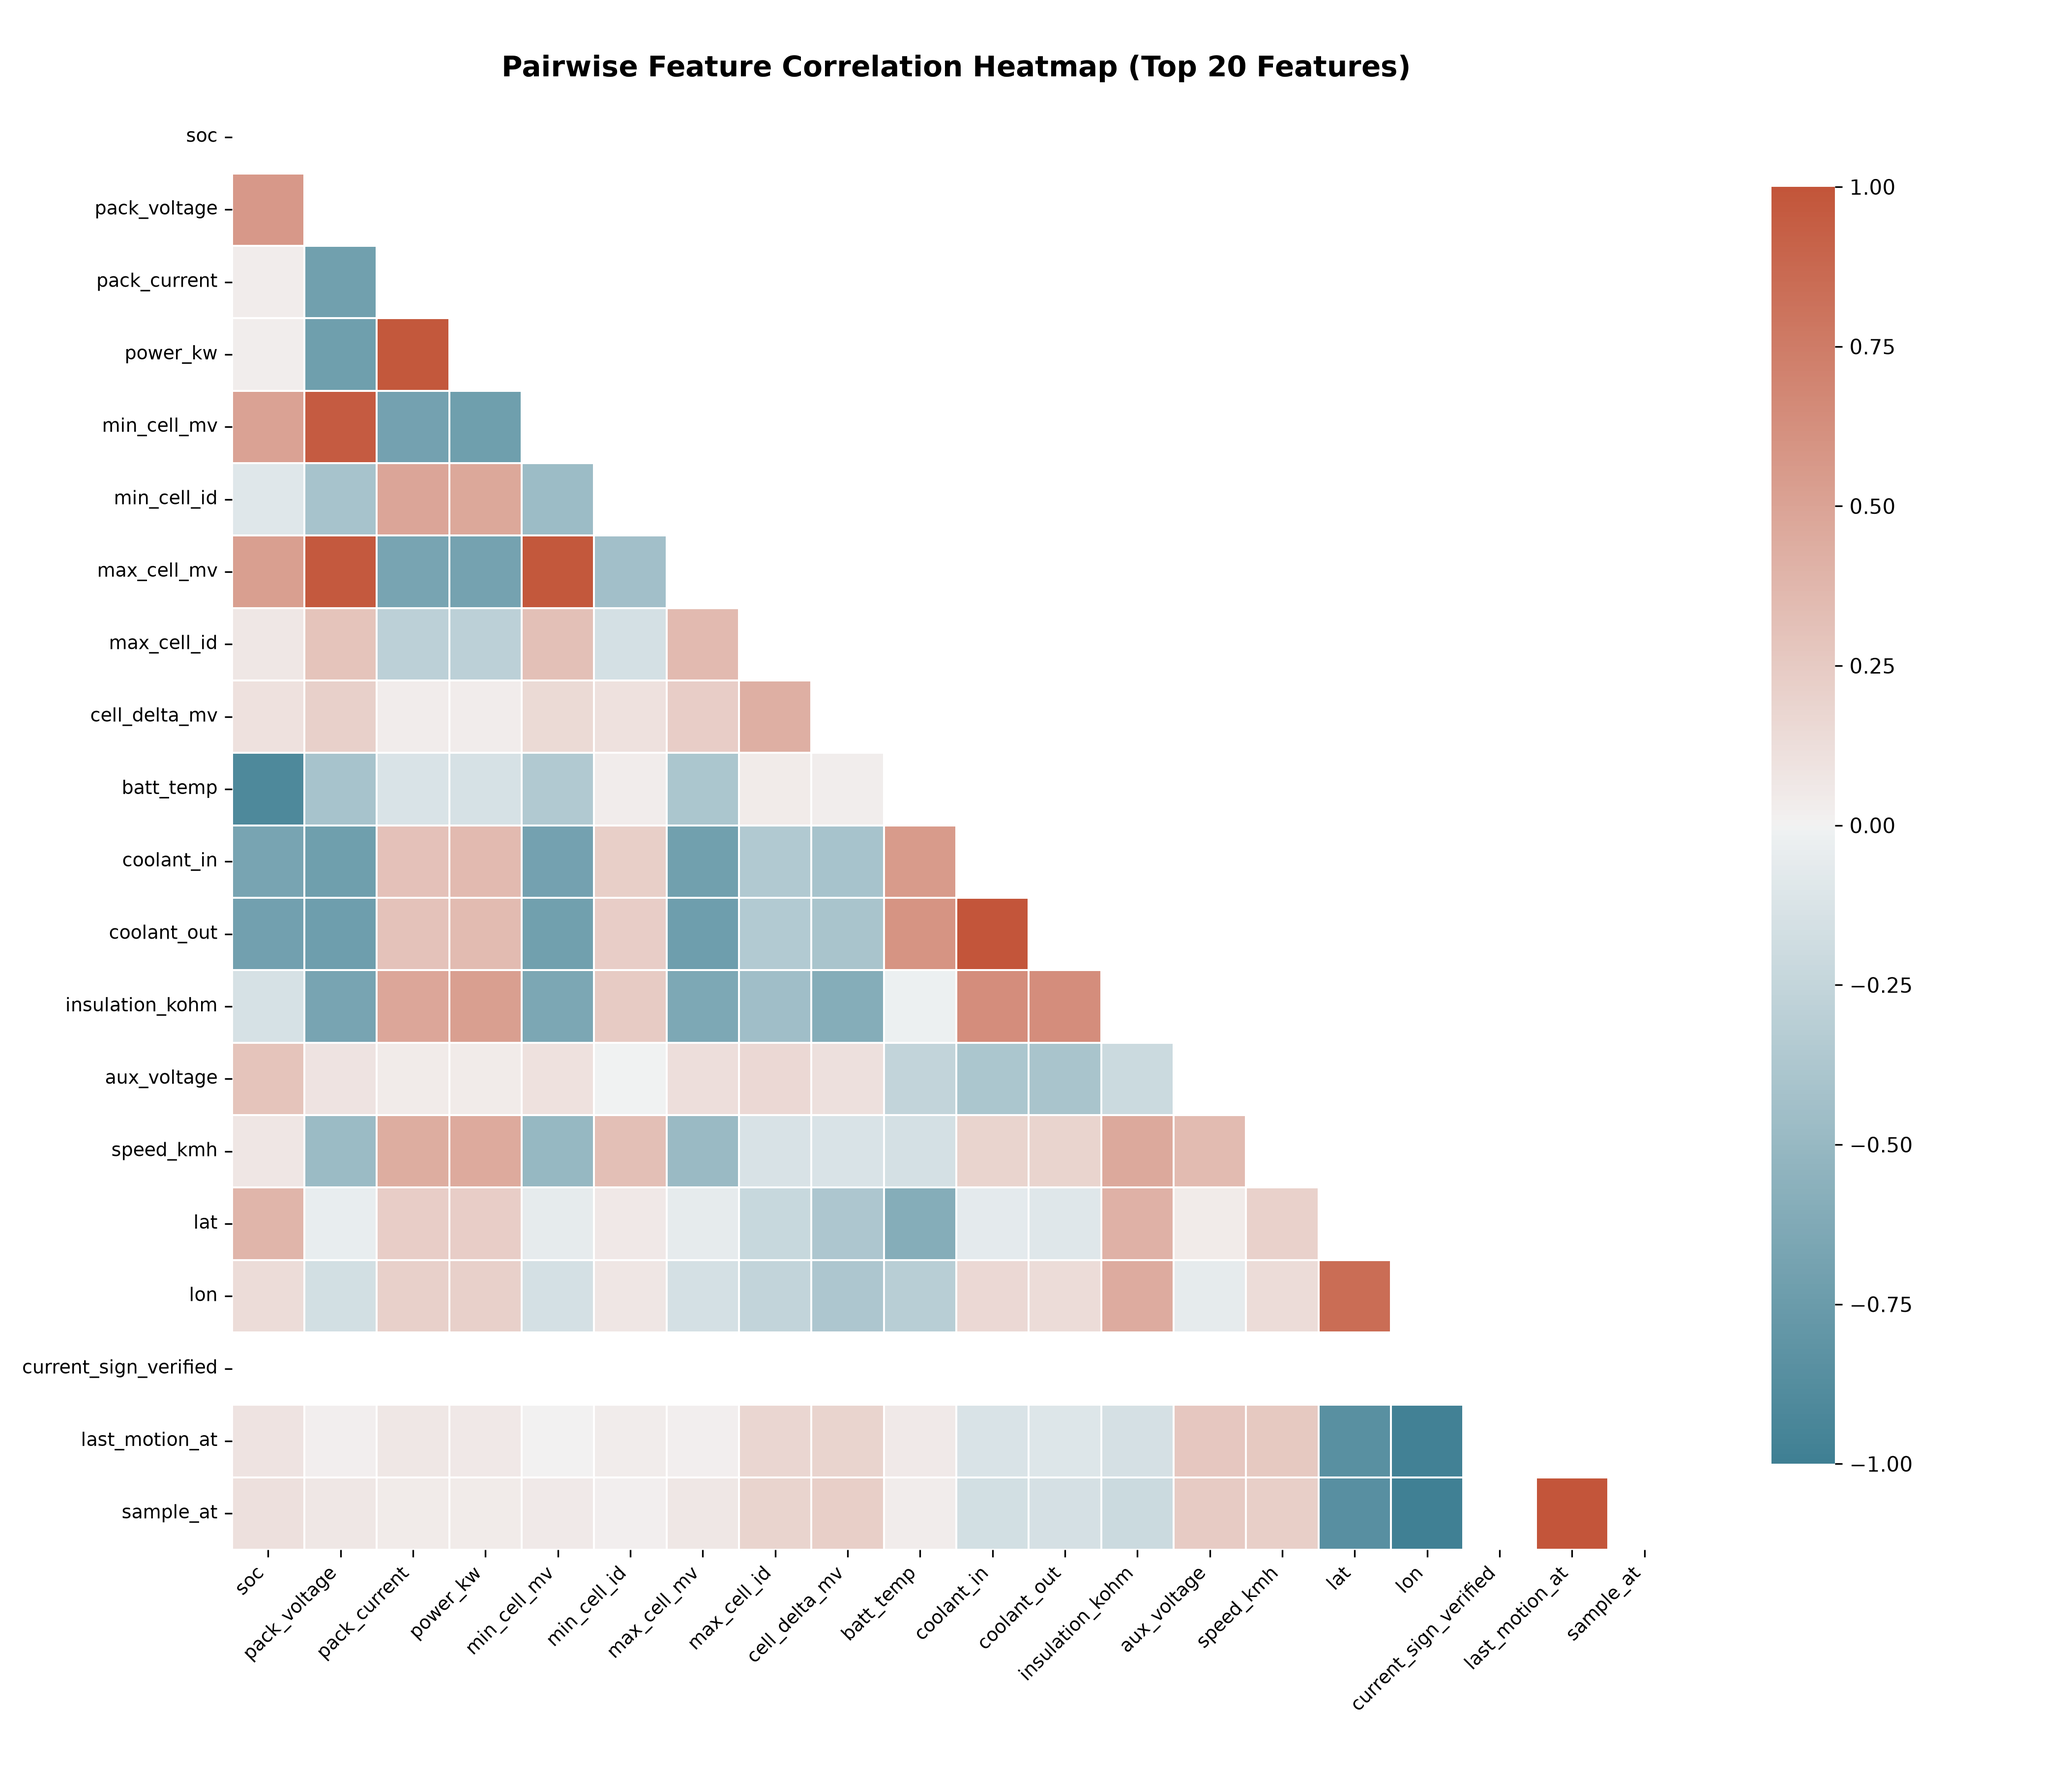
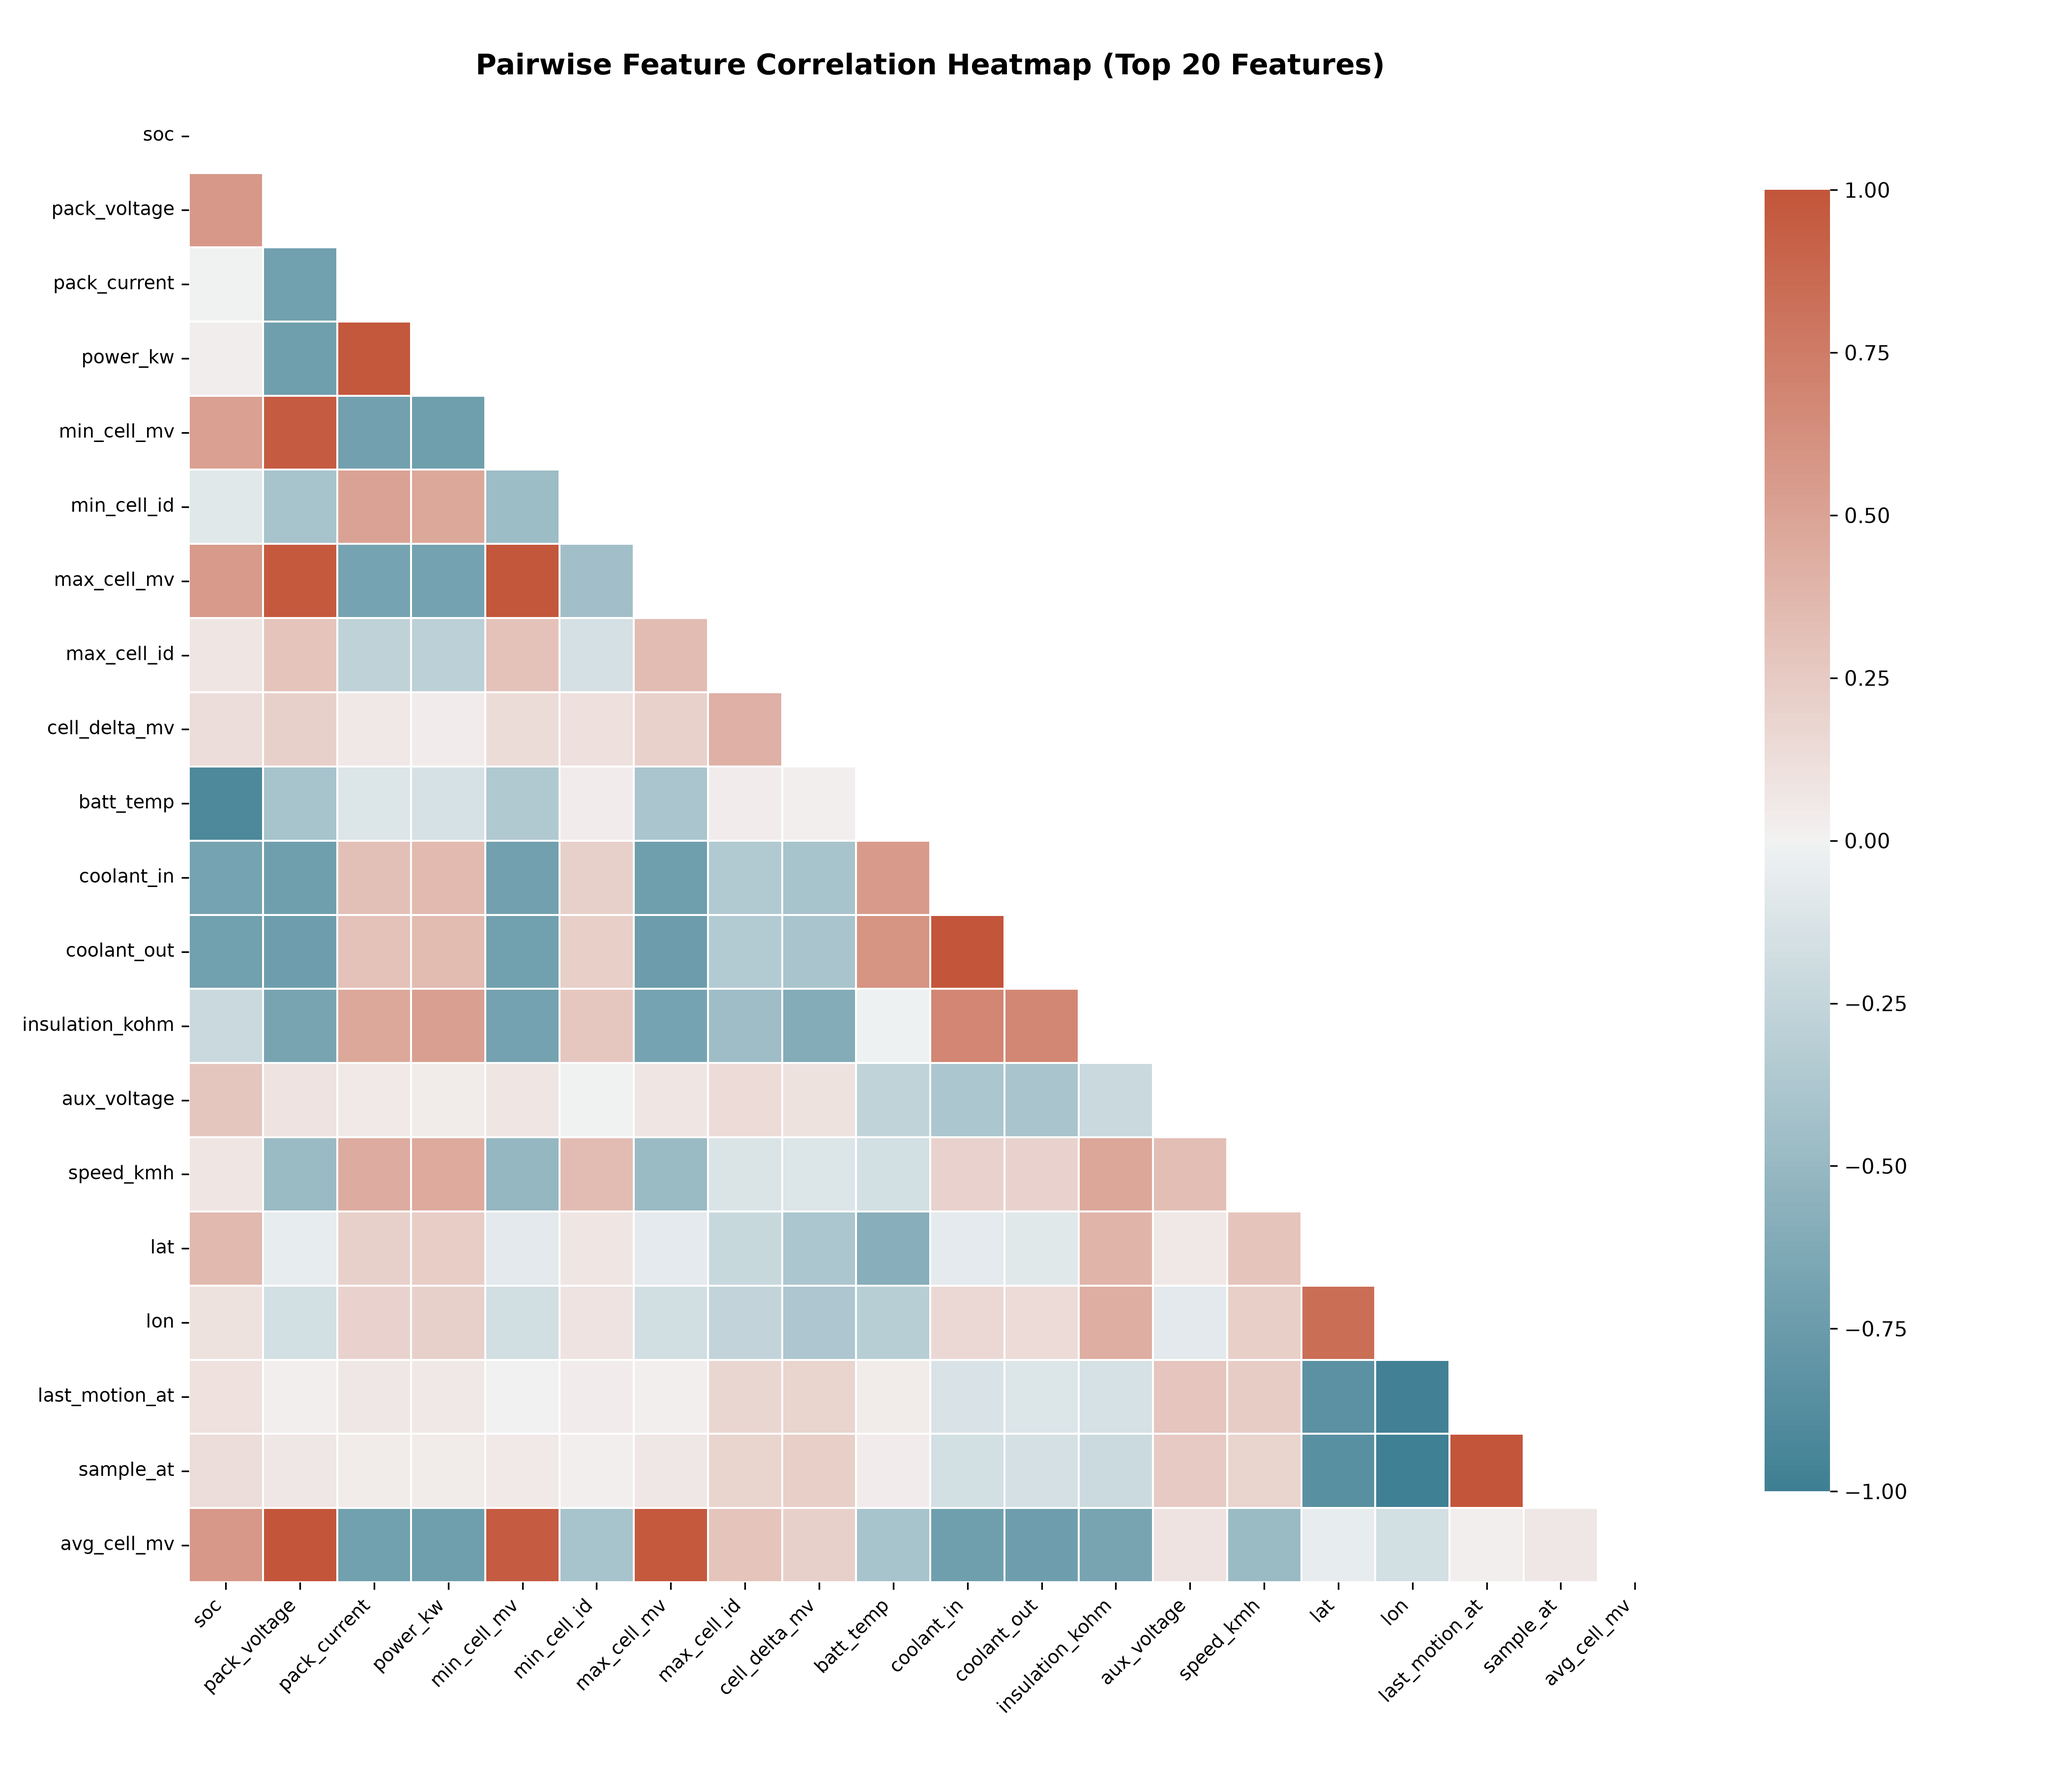
Update VRP data pipeline

diff --git a/src/pipeline.py b/src/pipeline.py
@@ -21,7 +21,7 @@ import pandas as pd
 from sklearn.model_selection._split import train_test_split
 
 from src.analysis import run_full_analysis
-from src.cleaning import clean_dataset, to_snake_case
+from src.cleaning import clean_dataset, drop_constant_columns, to_snake_case
 from src.config import (
     CLEANING_REPORT_PATH,
     CORR_THRESHOLD,
@@ -149,7 +149,24 @@ def run_pipeline(config: PipelineConfig) -> Dict[str, Any]:
             f"Available columns: {list(cleaned_df.columns)}"
         )
 
-    # 3. Exploratory Analysis & High-Res PNG Visualizations
+    # 3. Handle missing target rows (drop rows where target is NaN instead of imputing)
+    missing_target_count = int(cleaned_df[target_clean].isna().sum())
+    if missing_target_count > 0:
+        logger.info(f"Dropping {missing_target_count} rows with NaN in target '{target_clean}'.")
+        cleaned_df = cleaned_df.dropna(subset=[target_clean]).reset_index(drop=True)
+    cleaning_audit["dropped_missing_target_rows"] = missing_target_count
+
+    # 4. Drop constant (zero-variance) columns before running correlation analysis
+    protected = set([target_clean, "ts_utc", "ts_utc_original", "ts", "timestamp"] + (config.extra_metadata_cols or []))
+    cleaned_df, constant_cols = drop_constant_columns(cleaned_df, preserve_cols=list(protected))
+    if constant_cols:
+        existing_const = set(cleaning_audit.get("dropped_constant_cols", []))
+        cleaning_audit["dropped_constant_cols"] = sorted(list(existing_const.union(constant_cols)))
+
+    cleaning_audit["final_rows"] = int(cleaned_df.shape[0])
+    cleaning_audit["final_cols"] = int(cleaned_df.shape[1])
+
+    # 5. Exploratory Analysis & High-Res PNG Visualizations
     analysis_meta = run_full_analysis(
         df=cleaned_df,
         target_col=target_clean,
@@ -157,7 +174,7 @@ def run_pipeline(config: PipelineConfig) -> Dict[str, Any]:
         missing_threshold=config.missing_col_threshold
     )
 
-    # 4. Data Splitting (Before fitting selectors, imputers, scalers)
+    # 6. Data Splitting (Before fitting selectors, imputers, scalers)
     X_train, X_val, X_test, y_train, y_val, y_test, split_meta = split_data(
         df=cleaned_df,
         target_col=target_clean,
@@ -286,7 +303,9 @@ def run_pipeline(config: PipelineConfig) -> Dict[str, Any]:
     print(f"  Target Variable      : {target_clean}")
     print(f"  Initial Shape        : {cleaning_audit['initial_rows']} rows x {cleaning_audit['initial_cols']} cols")
     print(f"  Cleaned Shape        : {cleaning_audit['final_rows']} rows x {cleaning_audit['final_cols']} cols")
+    print(f"  Dropped Missing-Target: {cleaning_audit.get('dropped_missing_target_rows', 0)} rows")
     print(f"  Dropped High-Missing : {list(cleaning_audit['dropped_high_missing_cols'].keys())}")
+    print(f"  Dropped Constant     : {cleaning_audit.get('dropped_constant_cols', [])}")
     print(f"  Dropped Collinear    : {feature_sel_summary['collinear_dropped']}")
     print(f"  Domain Violations    : {cleaning_audit['domain_violations_corrected']}")
     total_outliers = sum(v["outlier_count"] for v in cleaning_audit["outlier_treatment"].values())

diff --git a/tests/test_pipeline.py b/tests/test_pipeline.py
@@ -71,6 +71,7 @@ def test_ev_domain_guards():
     df_raw = pd.DataFrame({
         "speed_kmh": [-15.0, 45.0, 180.0, 90.0],
         "cell_delta_mv": [-25.0, 5.0, 12.0, -2.0],
+        "cell_delta": [-10.0, 25.0, 60.0, 600.0],
         "soc": [-5.0, 80.0, 105.0, 50.0],
         "pack_voltage": [350.0, 360.0, 370.0, 380.0]
     })
@@ -81,9 +82,14 @@ def test_ev_domain_guards():
     assert df_clean["speed_kmh"].max() <= 150.0
     assert violations.get("speed_kmh", 0) == 2
 
-    # Cell delta assertions (cannot be negative)
+    # Cell delta assertions (millivolts: valid range 0 to 500 mV, valid 25 and 60 mV not clipped to 1.0)
     assert df_clean["cell_delta_mv"].min() >= 0.0
     assert violations.get("cell_delta_mv", 0) == 2
+    assert df_clean["cell_delta"].min() >= 0.0
+    assert df_clean["cell_delta"].iloc[1] == 25.0
+    assert df_clean["cell_delta"].iloc[2] == 60.0
+    assert df_clean["cell_delta"].max() <= 500.0
+    assert violations.get("cell_delta", 0) == 2
 
     # SOC assertions
     assert df_clean["soc"].min() >= 0.0
@@ -225,3 +231,51 @@ def test_cleaning_report_structure(temp_pipeline_env):
     ]
     for key in required_keys:
         assert key in data, f"Key '{key}' missing from cleaning report JSON!"
+
+
+def test_drop_missing_target_rows(tmp_path):
+    """Verifies that rows with NaN in the target variable are dropped and logged in cleaning_report.json."""
+    raw_dir = tmp_path / "raw"
+    processed_dir = tmp_path / "processed"
+    outputs_dir = tmp_path / "outputs"
+    raw_dir.mkdir(parents=True)
+    processed_dir.mkdir(parents=True)
+    outputs_dir.mkdir(parents=True)
+
+    sample_csv = raw_dir / "sample_ev_nan_target.csv"
+    df = generate_synthetic_vrp_data(num_rows=100)
+    # Inject 15 NaNs into the target column
+    df.loc[:14, "power_kw"] = np.nan
+    df.to_csv(sample_csv, index=False)
+
+    report_file = outputs_dir / "cleaning_report.json"
+    config = PipelineConfig(
+        input_path=str(sample_csv),
+        target_col="power_kw",
+        split_mode="chronological",
+        output_dir=str(processed_dir),
+        plots_dir=str(outputs_dir / "plots"),
+        report_path=str(report_file)
+    )
+    report = run_pipeline(config)
+
+    assert report["cleaning"]["dropped_missing_target_rows"] == 15
+    assert report["cleaning"]["final_rows"] == 85
+
+    # Verify no NaNs in train/val/test splits
+    train_df = pd.read_csv(processed_dir / "train.csv")
+    assert train_df["power_kw"].isna().sum() == 0
+
+
+def test_drop_constant_columns(synthetic_df):
+    """Verifies that constant (zero-variance) columns are dropped before correlation analysis."""
+    from src.cleaning import drop_constant_columns
+    df = synthetic_df.copy()
+    df["constant_num"] = 42.0
+    df["constant_str"] = "STATIC"
+
+    df_filtered, dropped = drop_constant_columns(df, preserve_cols=["power_kw"])
+    assert "constant_num" in dropped
+    assert "constant_str" in dropped
+    assert "constant_num" not in df_filtered.columns
+    assert "constant_str" not in df_filtered.columns

diff --git a/src/cleaning.py b/src/cleaning.py
@@ -92,11 +92,33 @@ def drop_high_missing_columns(
     return df_filtered, dropped
 
 
+def drop_constant_columns(
+    df: pd.DataFrame,
+    preserve_cols: Optional[List[str]] = None
+) -> Tuple[pd.DataFrame, List[str]]:
+    """
+    Identifies and drops columns with zero variance (constant columns where nunique <= 1, ignoring NaNs).
+    Preserves protected columns (e.g. target, timestamps).
+    """
+    preserve = set(preserve_cols or [])
+    dropped = []
+    
+    for col in df.columns:
+        if col not in preserve:
+            if df[col].nunique(dropna=True) <= 1:
+                dropped.append(col)
+                
+    df_filtered = df.drop(columns=dropped)
+    if dropped:
+        logger.info(f"Dropped {len(dropped)} constant/zero-variance columns: {dropped}")
+    return df_filtered, dropped
+
+
 def apply_domain_guards(df: pd.DataFrame) -> Tuple[pd.DataFrame, Dict[str, int]]:
     """
     Enforces EV physical domain guards:
     - Speed cannot be negative or > 150 km/h
-    - Cell delta voltage (cell_delta_mv) cannot be negative
+    - Cell delta voltage (cell_delta_mv, cell_delta) valid range 0 to 500 mV (cannot be negative)
     - SOC cannot be outside [0, 100]
     - Pack voltage cannot be <= 0
     """
@@ -222,6 +244,7 @@ def clean_dataset(
         "duplicates_removed": 0,
         "dropped_unconfirmed_cols": [],
         "dropped_high_missing_cols": {},
+        "dropped_constant_cols": [],
         "domain_violations_corrected": {},
         "outlier_treatment": {},
         "final_rows": 0,
@@ -265,6 +288,13 @@ def clean_dataset(
         exclude_cols=non_feature_exclusions
     )
     audit["outlier_treatment"] = outlier_stats
+
+    # 7. Drop constant (zero-variance) columns
+    df_cleaned, dropped_constant = drop_constant_columns(
+        df_cleaned,
+        preserve_cols=list(protected)
+    )
+    audit["dropped_constant_cols"] = dropped_constant
 
     audit["final_rows"] = int(df_cleaned.shape[0])
     audit["final_cols"] = int(df_cleaned.shape[1])

diff --git a/src/feature_selection.py b/src/feature_selection.py
@@ -59,7 +59,8 @@ class FeatureSelector(BaseEstimator, TransformerMixin):
         # 1. Identify zero-variance features
         self.zero_variance_cols_ = [
             c for c in current_cols
-            if X[c].nunique(dropna=False) <= 1
+            if X[c].nunique(dropna=True) <= 1
+            or (pd.api.types.is_numeric_dtype(X[c]) and len(X[c].dropna()) > 0 and X[c].dropna().std() <= 1e-12)
         ]
         if self.zero_variance_cols_:
             logger.info(f"Identified {len(self.zero_variance_cols_)} zero-variance columns: {self.zero_variance_cols_}")
@@ -68,6 +69,11 @@ class FeatureSelector(BaseEstimator, TransformerMixin):
 
         # 2. Identify collinear features among numeric columns
         numeric_df = X[remaining_cols].select_dtypes(include=[np.number])
+        valid_num_cols = [
+            c for c in numeric_df.columns
+            if numeric_df[c].nunique(dropna=True) > 1 and numeric_df[c].std() > 1e-12
+        ]
+        numeric_df = numeric_df[valid_num_cols]
         if len(numeric_df.columns) > 1:
             corr_matrix = numeric_df.corr().abs()
             

diff --git a/src/config.py b/src/config.py
@@ -35,9 +35,9 @@ DOMAIN_GUARDS: Dict[str, Dict[str, Any]] = {
     "speed_valid": {"min": 0.0, "max": 150.0},
     "speed_alt3": {"min": 0.0, "max": 150.0},
     
-    # Cell Delta: voltage difference between max and min cell (must be non-negative)
-    "cell_delta_mv": {"min": 0.0, "max": 1000.0},
-    "cell_delta": {"min": 0.0, "max": 1.0},
+    # Cell Delta: voltage difference between max and min cell (millivolts: valid range 0 to 500 mV)
+    "cell_delta_mv": {"min": 0.0, "max": 500.0},
+    "cell_delta": {"min": 0.0, "max": 500.0},
     
     # State of Charge (SOC): percentage [0, 100]
     "soc": {"min": 0.0, "max": 100.0},

diff --git a/src/analysis.py b/src/analysis.py
@@ -41,8 +41,14 @@ def compute_correlations(
 ) -> Tuple[pd.DataFrame, pd.Series]:
     """
     Computes correlation matrix and feature correlations with the target.
+    Filters out constant/zero-variance features to prevent divide-by-zero warnings.
     """
     numeric_df = df.select_dtypes(include=[np.number])
+    valid_cols = [
+        c for c in numeric_df.columns
+        if numeric_df[c].nunique(dropna=True) > 1 and numeric_df[c].std() > 1e-12
+    ]
+    numeric_df = numeric_df[valid_cols]
     corr_matrix = numeric_df.corr(method=method)
     
     target_corr = pd.Series(dtype=float)

diff --git a/app.py b/app.py
@@ -153,6 +153,7 @@ if "pipeline_report" in st.session_state:
         st.markdown("---")
         m1, m2, m3 = st.columns(3)
         with m1:
+            st.info(f"**Missing-Target Dropped:** {rep['cleaning'].get('dropped_missing_target_rows', 0)}")
             st.info(f"**Duplicates Dropped:** {rep['cleaning']['duplicates_removed']}")
             st.info(f"**High-Missing Dropped:** {len(rep['cleaning']['dropped_high_missing_cols'])}")
         with m2:
